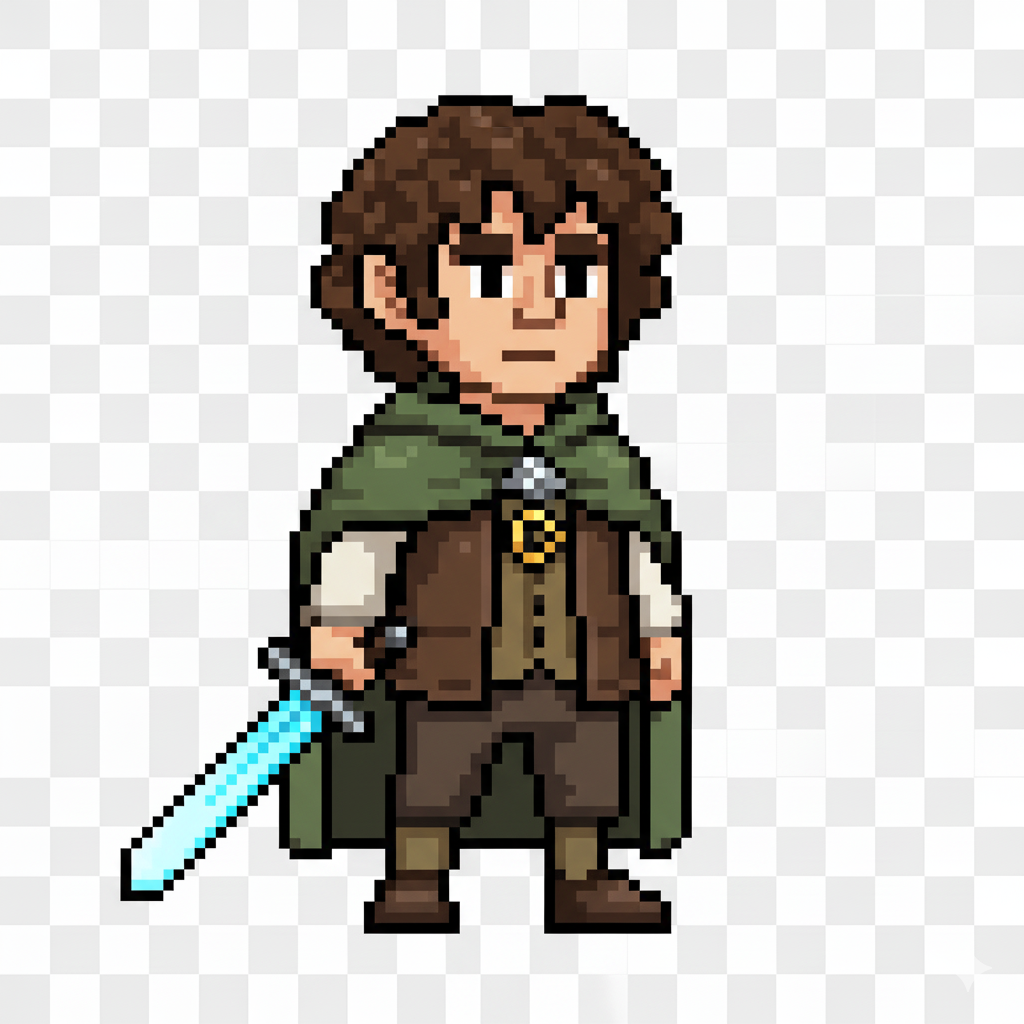
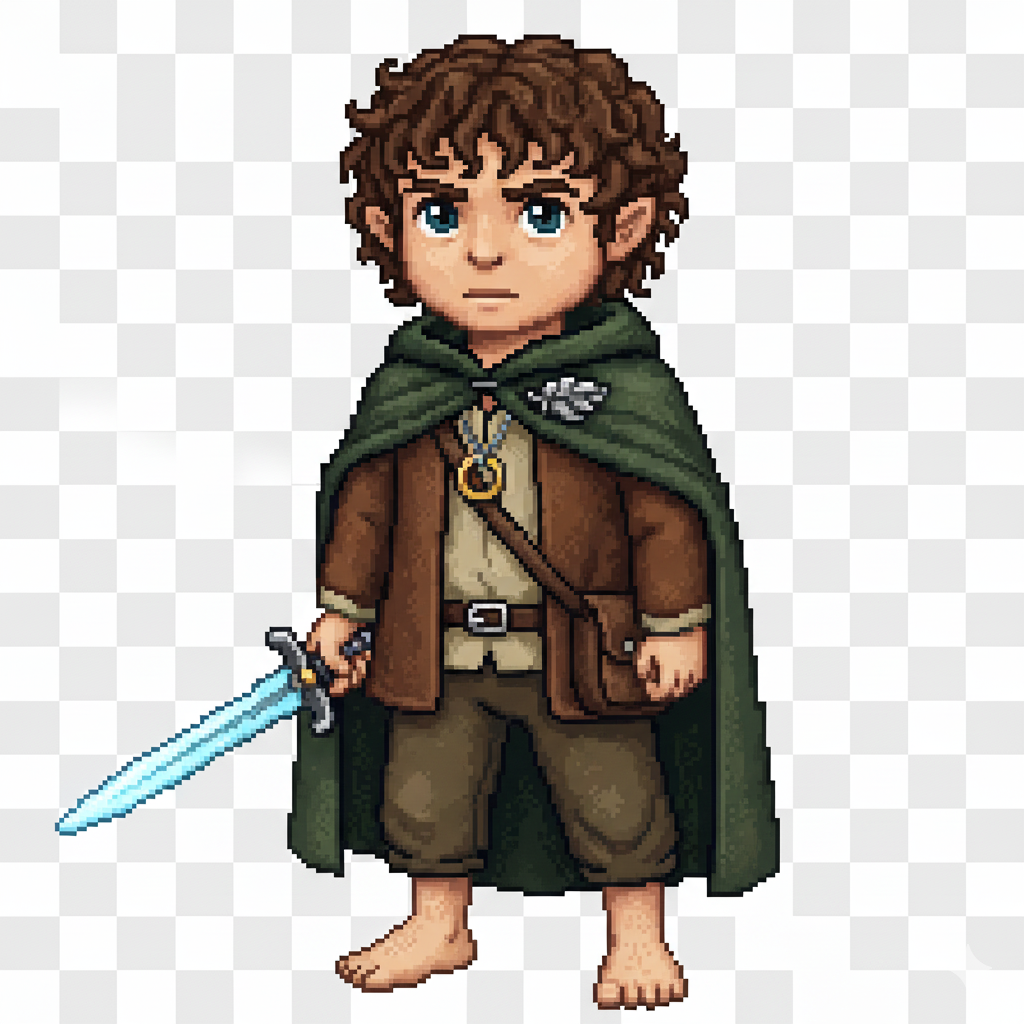
Imprimindo os personagens e novas artes

diff --git a/main.py b/main.py
@@ -50,7 +50,11 @@ class Personagem():
     def draw(self):
         tela.blit(self.image, self.rect)
 
-Aragorn = Personagem(200, 260, 'Aragorn', 200, 10, 20)
+Aragorn = Personagem(300, 450, 'Aragorn', 200, 10, 20)
+Sauron = Personagem(900, 450, 'Sauron', 350, 10, 20)
+Nazgul1 = Personagem(1000, 300, 'Nazgûl', 150, 10, 20)
+Nazgul2 = Personagem(1000, 550, 'Nazgûl', 150, 10, 20)
+
 
 #Variável para sair do jogo caso atinja condição para ser falsa
 rodando = True
@@ -68,6 +72,10 @@ while rodando:
 
     #Faz um personagem
     Aragorn.draw()
+    Sauron.draw()
+    Nazgul1.draw()
+    Nazgul2.draw()
+
     
     for event in pygame.event.get():
         if event.type == pygame.QUIT:
